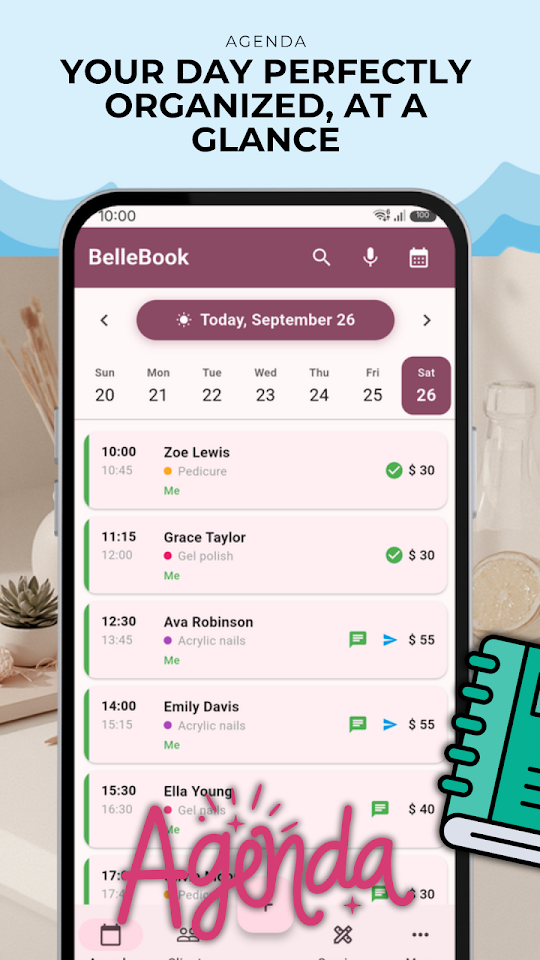
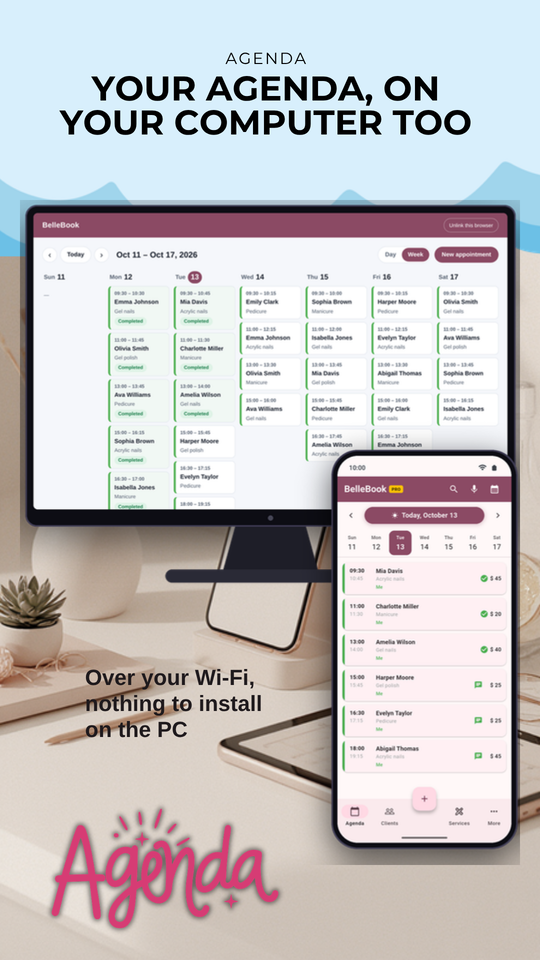
README, CHANGELOG and screenshots for 0.14.0
README (es/en/pt/it) with the Play listing texts published with 0.14.0:
the agenda on a computer of the same Wi-Fi (seeing the day and the week
is free; with PRO you also book, move and complete from there). CHANGELOG
in each language with 0.14.0, from the in-app "what's new". The new store
picture goes second in assets/, as in Play.

Claude-Session: https://claude.ai/code/session_01F2oKLoP6UqA3vJ2QB2BELF

diff --git a/README.md b/README.md
@@ -23,6 +23,10 @@ Diseñada para peluqueras, manicuristas, estilistas y profesionales de la estét
 
 Visualizá tus turnos del día de un vistazo. Navegá entre días con un swipe, reprogramá citas con un toque y mandá el recordatorio por WhatsApp al instante. Simple, rápida y sin complicaciones. Sumá varios servicios en un mismo turno: el tiempo y el precio se suman solos.
 
+## 💻 TAMBIÉN EN TU COMPUTADORA
+
+Prendé el portal en la app y abrí tu agenda en el navegador de una PC de tu mismo Wi-Fi: la semana entera a pantalla grande. No hay que instalar nada en la computadora ni crear una cuenta, y tus datos no salen de tu red.
+
 ## 🎙 TURNOS POR VOZ
 
 ¿Tenés las manos ocupadas? Cargá turnos hablando. Decí "María viene a hacerse las uñas mañana a las 15" y BelleBook lo registra automáticamente.
@@ -57,10 +61,11 @@ Protegé tu información con huella dactilar o reconocimiento facial.
 - Hasta 50 clientas, 15 servicios y 3 profesionales
 - Turnos por voz, recordatorios WhatsApp, métricas y biometría
 - Enlace y QR para pedir turno por WhatsApp, y horarios libres listos para mandar
+- Tu agenda en la computadora: día y semana, por tu Wi-Fi
 
 ## ⭐ BELLEBOOK PRO
 
-Sin publicidad. Clientas, servicios y profesionales sin límite, más copia de seguridad para llevarte todo a otro teléfono. 7 días gratis; cancelás cuando quieras desde Google Play.
+Sin publicidad. Clientas, servicios y profesionales sin límite, más copia de seguridad para llevarte todo a otro teléfono. Desde la computadora también agendás, movés y completás turnos. 7 días gratis; cancelás cuando quieras desde Google Play.
 
 Desarrollada por EgeaINC — Gabriel Egea.
 

diff --git a/README-it.md b/README-it.md
@@ -23,6 +23,10 @@ Progettata per parrucchiere, estetiste, nail artist e professioniste della belle
 
 Visualizza tutti gli appuntamenti del giorno in un colpo d'occhio. Scorri tra i giorni, riprogramma con un tocco e invia il promemoria via WhatsApp in un attimo. Aggiungi più servizi allo stesso appuntamento: durata e prezzo si sommano da soli.
 
+## 💻 ANCHE SUL TUO COMPUTER
+
+Attiva il portale nell'app e apri la tua agenda nel browser di un PC collegato al tuo stesso Wi-Fi: tutta la settimana a schermo grande. Non serve installare nulla sul computer né creare un account, e i tuoi dati non escono dalla tua rete.
+
 ## 🎙 APPUNTAMENTI CON LA VOCE
 
 Hai le mani occupate? Registra appuntamenti parlando. Di' "Maria viene per la manicure domani alle 15" e BelleBook lo registra in automatico.
@@ -61,10 +65,11 @@ BelleBook è completamente in italiano — interfaccia, notifiche, promemoria e 
 - Fino a 50 clienti, 15 servizi e 3 professionisti
 - Appuntamenti vocali, promemoria WhatsApp, metriche e biometria
 - Link e QR per ricevere richieste su WhatsApp, e orari liberi pronti da inviare
+- La tua agenda sul computer: giorno e settimana, dal tuo Wi-Fi
 
 ## ⭐ BELLEBOOK PRO
 
-Senza pubblicità. Clienti, servizi e professionisti senza limite, più il backup per portare tutto su un altro telefono. 7 giorni gratis; annulli quando vuoi da Google Play.
+Senza pubblicità. Clienti, servizi e professionisti senza limite, più il backup per portare tutto su un altro telefono. Dal computer puoi anche prenotare, spostare e completare appuntamenti. 7 giorni gratis; annulli quando vuoi da Google Play.
 
 Sviluppato da EgeaINC — Gabriel Egea.
 

diff --git a/README-pt.md b/README-pt.md
@@ -23,6 +23,10 @@ Feita para cabeleireiras, manicures, esteticistas e profissionais da beleza. Org
 
 Veja todos os horários do dia de uma vez. Navegue entre dias com um swipe, reagende com um toque e envie o lembrete pelo WhatsApp na hora. Inclua vários serviços no mesmo agendamento: o tempo e o preço se somam sozinhos.
 
+## 💻 TAMBÉM NO SEU COMPUTADOR
+
+Ligue o portal no app e abra a sua agenda no navegador de um PC do seu mesmo Wi-Fi: a semana inteira em tela grande. Não é preciso instalar nada no computador nem criar conta, e os seus dados não saem da sua rede.
+
 ## 🎙 AGENDAMENTO POR VOZ
 
 Com as mãos ocupadas? Agende falando. Diga "Maria vem fazer as unhas amanhã às 15h" e o BelleBook registra automaticamente.
@@ -57,10 +61,11 @@ Proteja suas informações com impressão digital ou reconhecimento facial.
 - Até 50 clientes, 15 serviços e 3 profissionais
 - Agendamento por voz, lembretes WhatsApp, métricas e biometria
 - Link e QR code para receber pedidos pelo WhatsApp, e horários livres prontos para enviar
+- A sua agenda no computador: dia e semana, pelo seu Wi-Fi
 
 ## ⭐ BELLEBOOK PRO
 
-Sem anúncios. Clientes, serviços e profissionais sem limite, além de backup para levar tudo para outro celular. 7 dias grátis; cancele quando quiser no Google Play.
+Sem anúncios. Clientes, serviços e profissionais sem limite, além de backup para levar tudo para outro celular. Pelo computador você também agenda, move e conclui agendamentos. 7 dias grátis; cancele quando quiser no Google Play.
 
 Desenvolvido por EgeaINC — Gabriel Egea.
 

diff --git a/README-en.md b/README-en.md
@@ -23,6 +23,10 @@ Built for hairdressers, nail technicians, estheticians, and beauty professionals
 
 See your full day at a glance. Swipe between days, reschedule with a tap, and send the WhatsApp reminder right away. Add several services to one appointment: time and price add up on their own.
 
+## 💻 ON YOUR COMPUTER TOO
+
+Turn the portal on in the app and open your agenda in the browser of a PC on your same Wi-Fi: the whole week on a big screen. Nothing to install on the computer and no account to create, and your data never leaves your network.
+
 ## 🎙 VOICE BOOKING
 
 Hands full? Book appointments by speaking. Say "Maria is coming for a manicure tomorrow at 3pm" and BelleBook records it automatically.
@@ -57,10 +61,11 @@ Protect your data with fingerprint or facial recognition.
 - Up to 50 clients, 15 services and 3 professionals
 - Voice booking, WhatsApp reminders, metrics & biometrics
 - Link and QR code for booking requests on WhatsApp, and free times ready to send
+- Your agenda on your computer: day and week, over your Wi-Fi
 
 ## ⭐ BELLEBOOK PRO
 
-No ads. Unlimited clients, services and professionals, plus a backup you can carry to another phone. 7 days free; cancel anytime from Google Play.
+No ads. Unlimited clients, services and professionals, plus a backup you can carry to another phone. From your computer you also book, move and complete appointments. 7 days free; cancel anytime from Google Play.
 
 Developed by EgeaINC — Gabriel Egea.
 

diff --git a/CHANGELOG-en.md b/CHANGELOG-en.md
@@ -1,5 +1,12 @@
 # What's new in BelleBook
 
+## 0.14.0 — October 2026
+**Your agenda, now on your computer too**
+
+- Turn the portal on in More › Use on your computer and open the address in the browser of a PC on your same Wi-Fi.
+- Seeing the day and the week is free. With PRO you also book, move and complete appointments.
+- Your data stays on your phone: the computer reads it over your network and nothing goes through the internet.
+
 ## 0.13.0 — October 2026
 - Several services per appointment: pick them when booking or add one from the details. Time and price add up on their own.
 - By voice too: say the services together when dictating.

diff --git a/CHANGELOG-it.md b/CHANGELOG-it.md
@@ -1,5 +1,12 @@
 # Novità di BelleBook
 
+## 0.14.0 — ottobre 2026
+**La tua agenda, ora anche sul computer**
+
+- Attiva il portale in Altro › Usa dal computer e apri l'indirizzo nel browser di un PC del tuo stesso Wi-Fi.
+- Vedere il giorno e la settimana è gratis. Con PRO puoi anche prenotare, spostare e completare appuntamenti.
+- I tuoi dati restano sul tuo telefono: il computer li legge dalla tua rete e niente passa da internet.
+
 ## 0.13.0 — ottobre 2026
 - Più servizi per appuntamento: sceglili quando prenoti o aggiungine uno dai dettagli. Tempo e prezzo si sommano da soli.
 - Anche a voce: di' i servizi insieme quando detti.

diff --git a/CHANGELOG.md b/CHANGELOG.md
@@ -1,5 +1,12 @@
 # Novedades de BelleBook
 
+## 0.14.0 — octubre 2026
+**Tu agenda, ahora también en la computadora**
+
+- Prendé el portal en Más › Usar en la computadora y abrí la dirección en el navegador de una PC de tu mismo Wi-Fi.
+- Ver el día y la semana es gratis. Con PRO también agendás, movés y completás turnos.
+- Tus datos siguen en tu teléfono: la computadora los lee por tu red y nada pasa por internet.
+
 ## 0.13.0 — octubre 2026
 - Varios servicios por turno: elegilos al agendar o sumá uno desde el detalle. El tiempo y el precio se suman solos.
 - Por voz también: nombrá los servicios juntos al dictar.

diff --git a/CHANGELOG-pt.md b/CHANGELOG-pt.md
@@ -1,5 +1,12 @@
 # Novidades do BelleBook
 
+## 0.14.0 — outubro 2026
+**A sua agenda, agora também no computador**
+
+- Ligue o portal em Mais › Usar no computador e abra o endereço no navegador de um PC do seu mesmo Wi-Fi.
+- Ver o dia e a semana é grátis. Com o PRO você também agenda, move e conclui agendamentos.
+- Os seus dados continuam no seu celular: o computador os lê pela sua rede e nada passa pela internet.
+
 ## 0.13.0 — outubro 2026
 - Vários serviços por agendamento: escolha ao agendar ou adicione um nos detalhes. O tempo e o valor se somam sozinhos.
 - Por voz também: diga os serviços juntos ao ditar.
